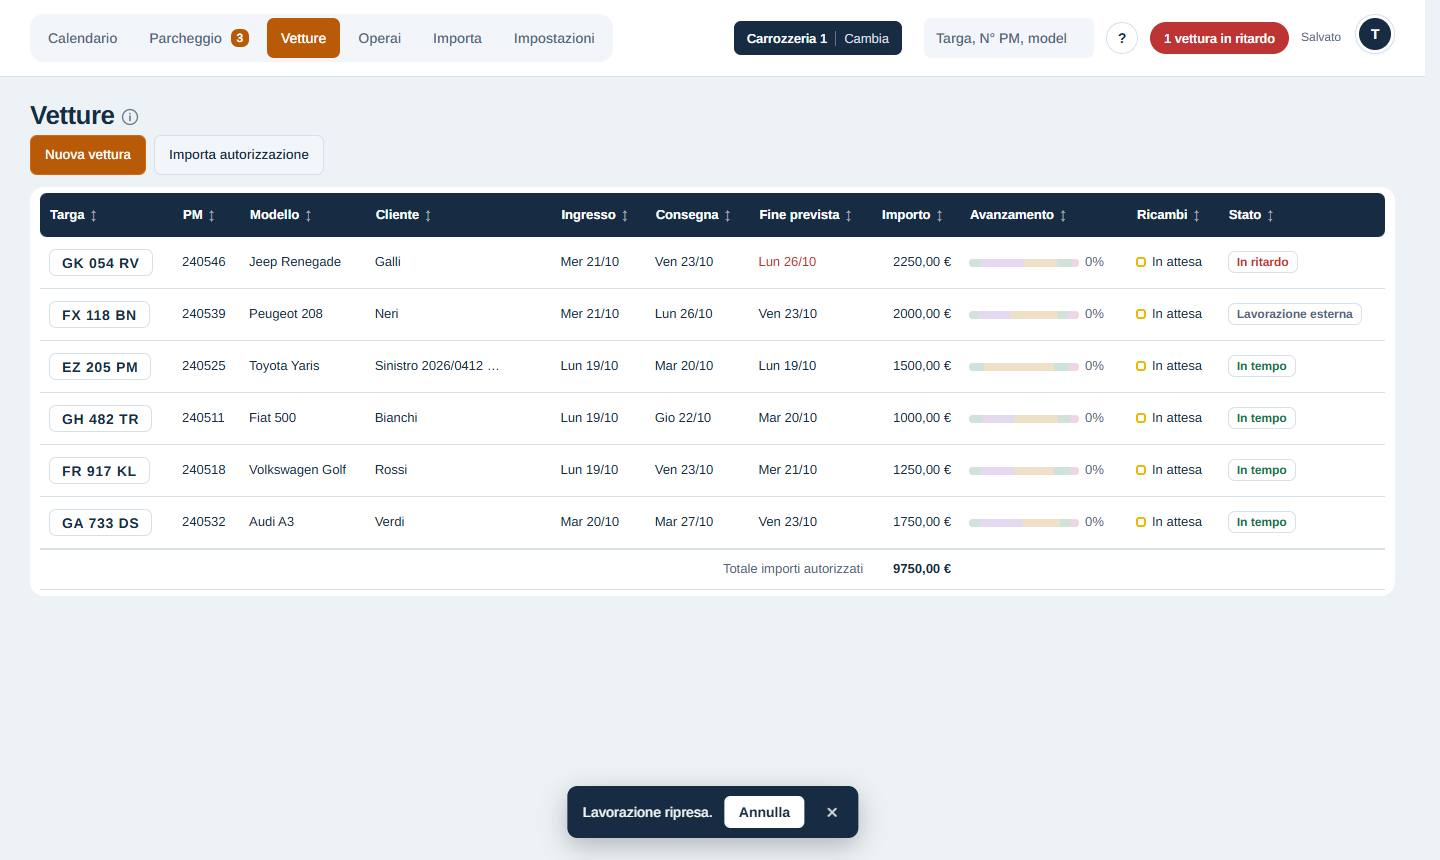
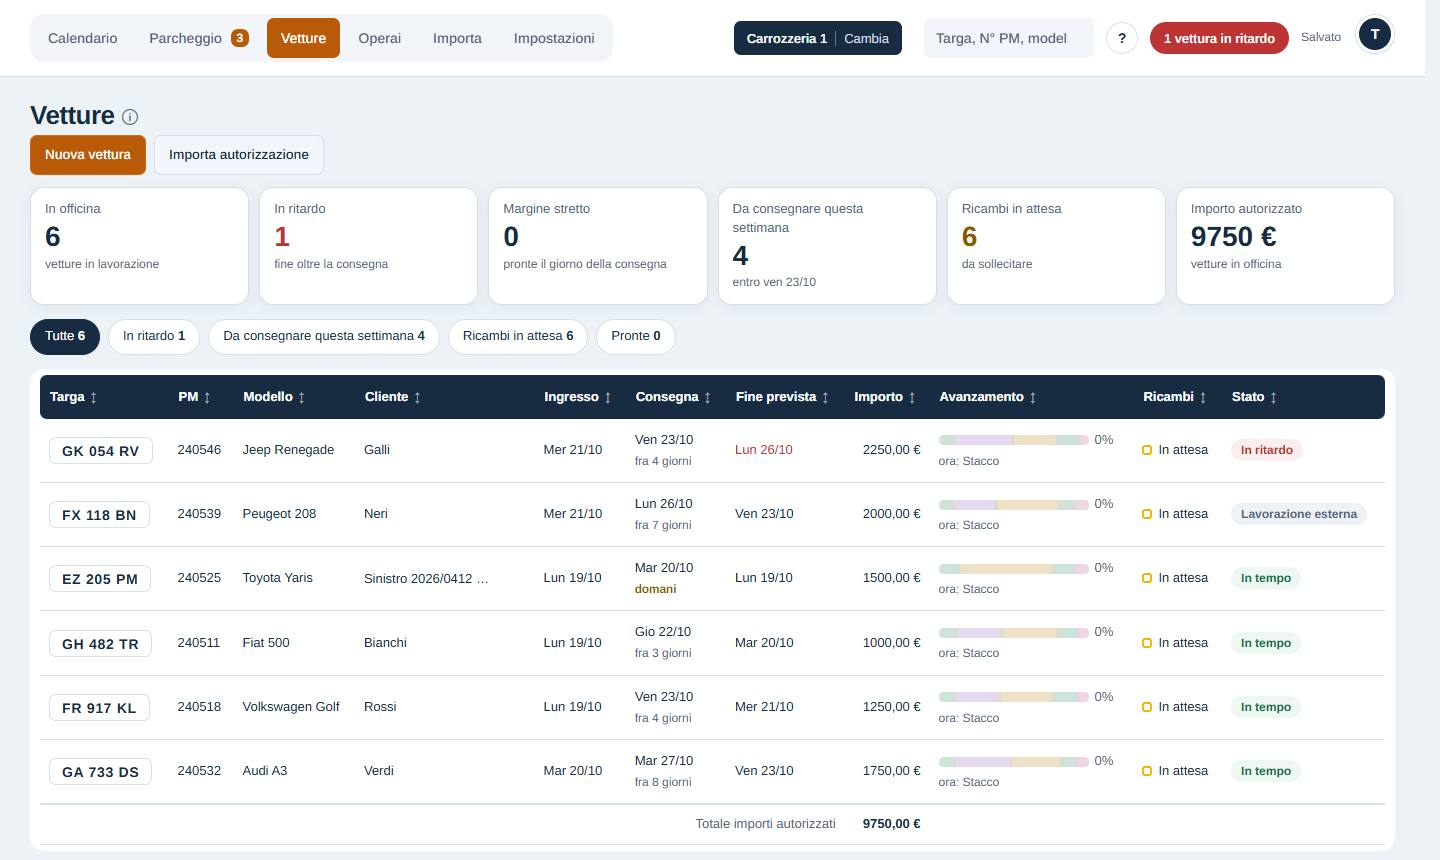
Planner 0.41.0: pagina Vetture con riepilogo, filtri e linea del tempo

diff --git a/planner/planning.css b/planner/planning.css
@@ -1399,3 +1399,59 @@ input[type=checkbox].sw:focus-visible{outline:2px solid var(--tape-chiaro);outli
 .pcard.mini.rc-ok .pcric select{color:var(--ok)}
 .pcard.mini.rc-att .pcric select{color:var(--warn)}
 @media (max-width:900px){.pwdays{grid-template-columns:repeat(2,minmax(0,1fr))!important}.pwfs{min-height:40px}.pwfs span{writing-mode:horizontal-tb;transform:none}}
+
+/* Vetture (2026-11-15): riepilogo, filtri rapidi e tabella più leggibile (proposta A); linea del tempo (proposta C) */
+.caropts{grid-template-columns:repeat(auto-fill,minmax(160px,1fr))}
+.vkpi{display:grid;grid-template-columns:repeat(auto-fit,minmax(170px,1fr));gap:10px;margin:0 0 14px}
+.vkpi div{background:var(--surface);border:1px solid var(--line);border-radius:var(--rb);padding:12px 14px;display:flex;flex-direction:column;gap:3px;box-shadow:0 3px 12px #152e4910}
+.vkpi span{font-size:13px;color:var(--muted)}
+.vkpi b{font-size:28px;line-height:1.1;color:var(--ink)}
+.vkpi small{font-size:12px;color:var(--muted)}
+.vkpi .bad b{color:var(--bad)}.vkpi .warn b{color:var(--warn)}
+.vfil{display:flex;flex-wrap:wrap;gap:8px;margin:0 0 14px}
+.vfil button{font:inherit;font-size:13px;min-height:36px;padding:0 14px;border-radius:999px;border:1px solid var(--line);background:var(--surface);color:var(--ink);cursor:pointer}
+.vfil button:hover{border-color:var(--tape-chiaro)}
+.vfil button[aria-pressed="true"]{background:var(--navy);border-color:var(--navy);color:#fff}
+.vtab .vrel,.vtab .vfase{display:block;font-size:12px;color:var(--muted);margin-top:3px}
+.vtab .vrel.warn{color:var(--warn);font-weight:600}.vtab .vrel.bad{color:var(--bad);font-weight:600}
+.vtab .ptrack{width:150px;height:10px;gap:2px}
+.vtab .ptrack i{border-radius:2px;flex:0 1 auto}
+.vtab .status{border:0;border-radius:999px;padding:4px 10px}
+.vtab .status.ok{background:#eef7f2}.vtab .status.warn{background:#fdf3e2}.vtab .status.bad{background:#fbeeee}.vtab .status.neu{background:#eef2f6}
+.vvuoto{margin:14px 4px}
+.vleg{display:flex;flex-wrap:wrap;gap:6px 18px;margin:12px 4px 0}
+.vleg i{display:inline-block;width:10px;height:10px;border-radius:2px;background:var(--c);margin-right:6px;vertical-align:-1px}
+.vtwrap{overflow-x:auto;background:var(--surface);border:1px solid var(--line);border-radius:var(--rb)}
+.vtime{min-width:1000px}
+.vth,.vtr{display:grid;grid-template-columns:300px minmax(0,1fr)}
+.vth{background:var(--navy);color:#fff}
+.vth .vtl{flex-direction:row;align-items:center;gap:6px}
+.vth .btn{height:30px;min-height:30px;padding:0 10px;background:#fff;color:var(--navy);border-color:#fff}
+.vth .vtl b{margin-left:6px;font-size:14px;white-space:nowrap}
+.vtds{display:grid;grid-template-columns:repeat(var(--n),minmax(0,1fr))}
+.vtd{display:flex;flex-direction:column;align-items:center;padding:7px 0;border-left:1px solid #2c4560}
+.vtd.lun{border-left-color:#6d82a0}
+.vtd small{font-size:11px;opacity:.8}.vtd b{font-size:14px}
+.vtd.oggi{background:var(--tape)}
+.vtl{display:flex;flex-direction:column;justify-content:center;gap:4px;padding:10px 14px;min-width:0}
+.vtl > span{display:flex;align-items:center;gap:8px;min-width:0;white-space:nowrap;overflow:hidden;text-overflow:ellipsis}
+.vtl .vtm{font-size:13px;overflow:hidden;text-overflow:ellipsis}
+.vtl .status{margin-left:auto;font-size:12px;padding:2px 8px;border:0;border-radius:999px}
+.vtl .status.ok{background:#eef7f2}.vtl .status.warn{background:#fdf3e2}.vtl .status.bad{background:#fbeeee}.vtl .status.neu{background:#eef2f6}
+.vtr{border-top:1px solid var(--line);cursor:pointer;background:#fff}
+.vtr:hover{background:var(--surface-2)}
+.vtr.focus{box-shadow:inset 3px 0 0 var(--tape-chiaro)}
+.vtg{position:relative;min-height:62px;background-image:linear-gradient(90deg,var(--line) 1px,transparent 1px);background-size:calc(100% / var(--n)) 100%}
+.vto{position:absolute;top:0;bottom:0;background:#d9690b14}
+.vtb{position:absolute;top:16px;height:18px;display:flex;gap:2px;border-radius:5px;overflow:hidden}
+.vtb i{display:block;height:100%;background:color-mix(in srgb,var(--c) 30%,var(--surface))}
+.vtb i.done{background:var(--c)}
+.vtb.late{box-shadow:0 0 0 2px var(--bad)}
+.vtb.sb{opacity:.45}
+.vtb.prima{border-top-left-radius:0;border-bottom-left-radius:0}
+.vtt{position:absolute;top:38px;font-size:12px;color:var(--muted);white-space:nowrap}
+.vtt.late{color:var(--bad);font-weight:600}
+.vtc{position:absolute;top:18px;width:12px;height:12px;transform:rotate(45deg);background:var(--navy);border:2px solid #fff}
+.vtc.late{background:var(--bad)}
+.vtnote{margin:10px 4px 0}
+@media (max-width:640px){.vth,.vtr{grid-template-columns:200px minmax(0,1fr)}}
